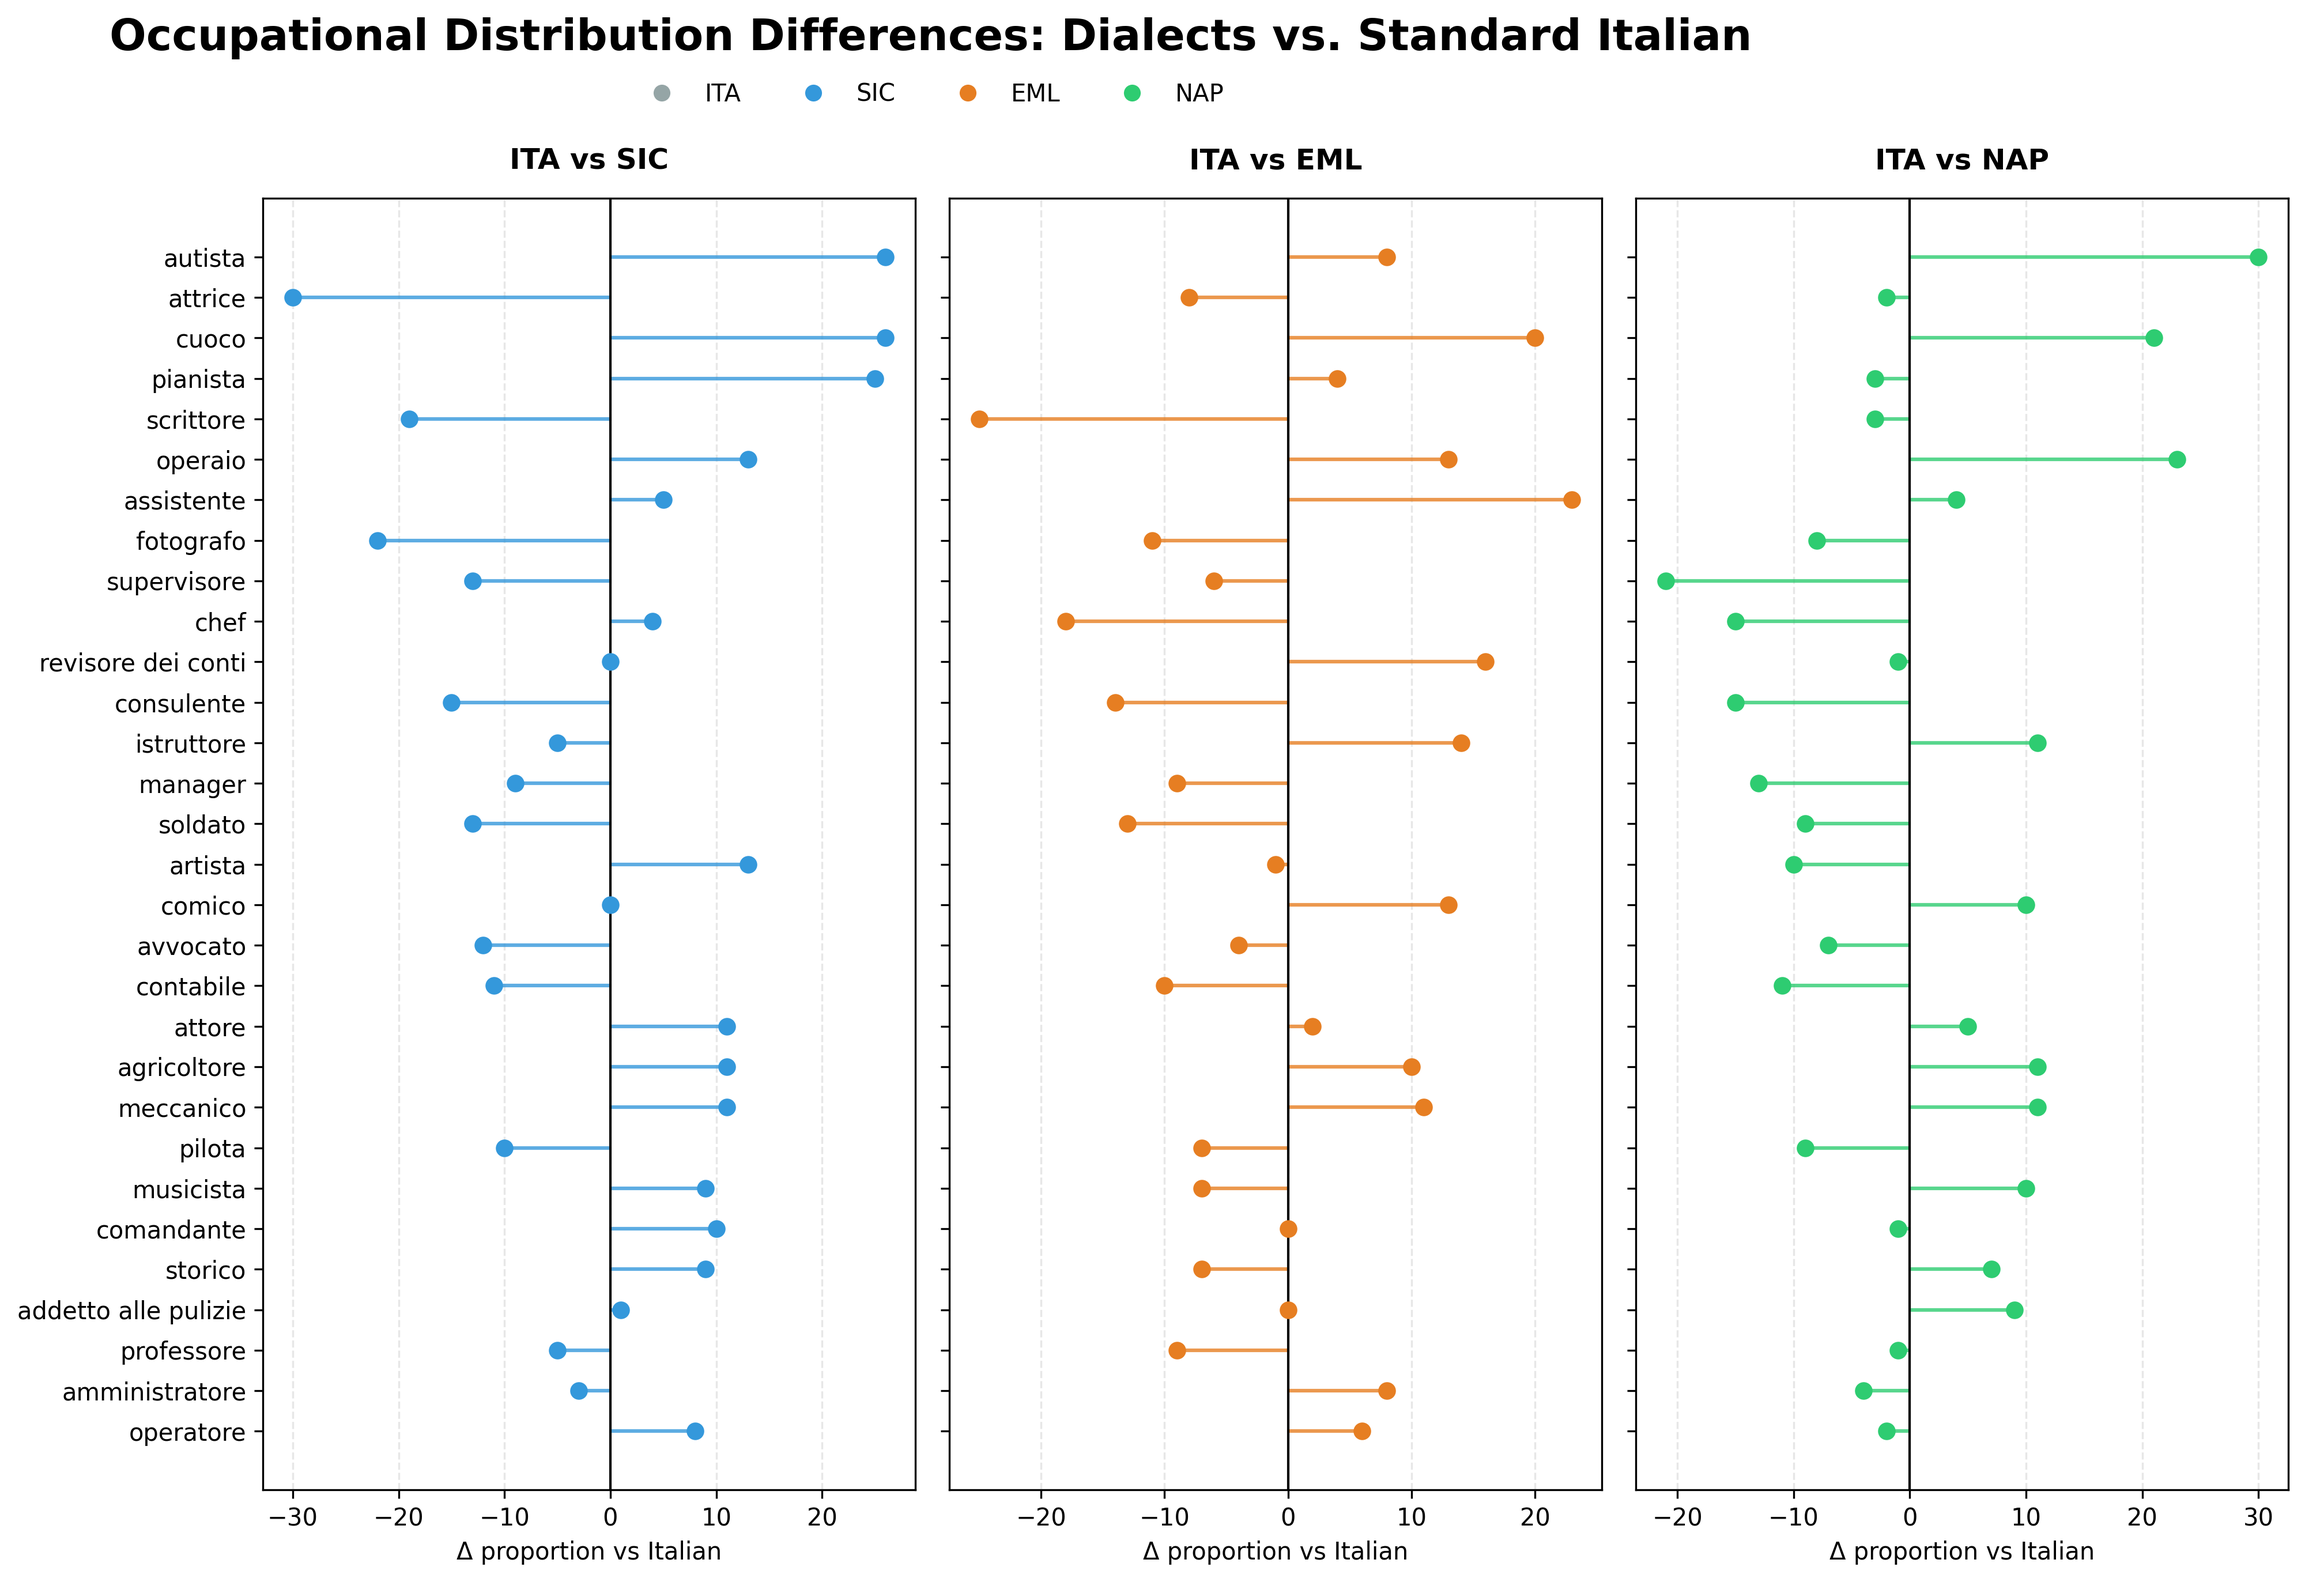
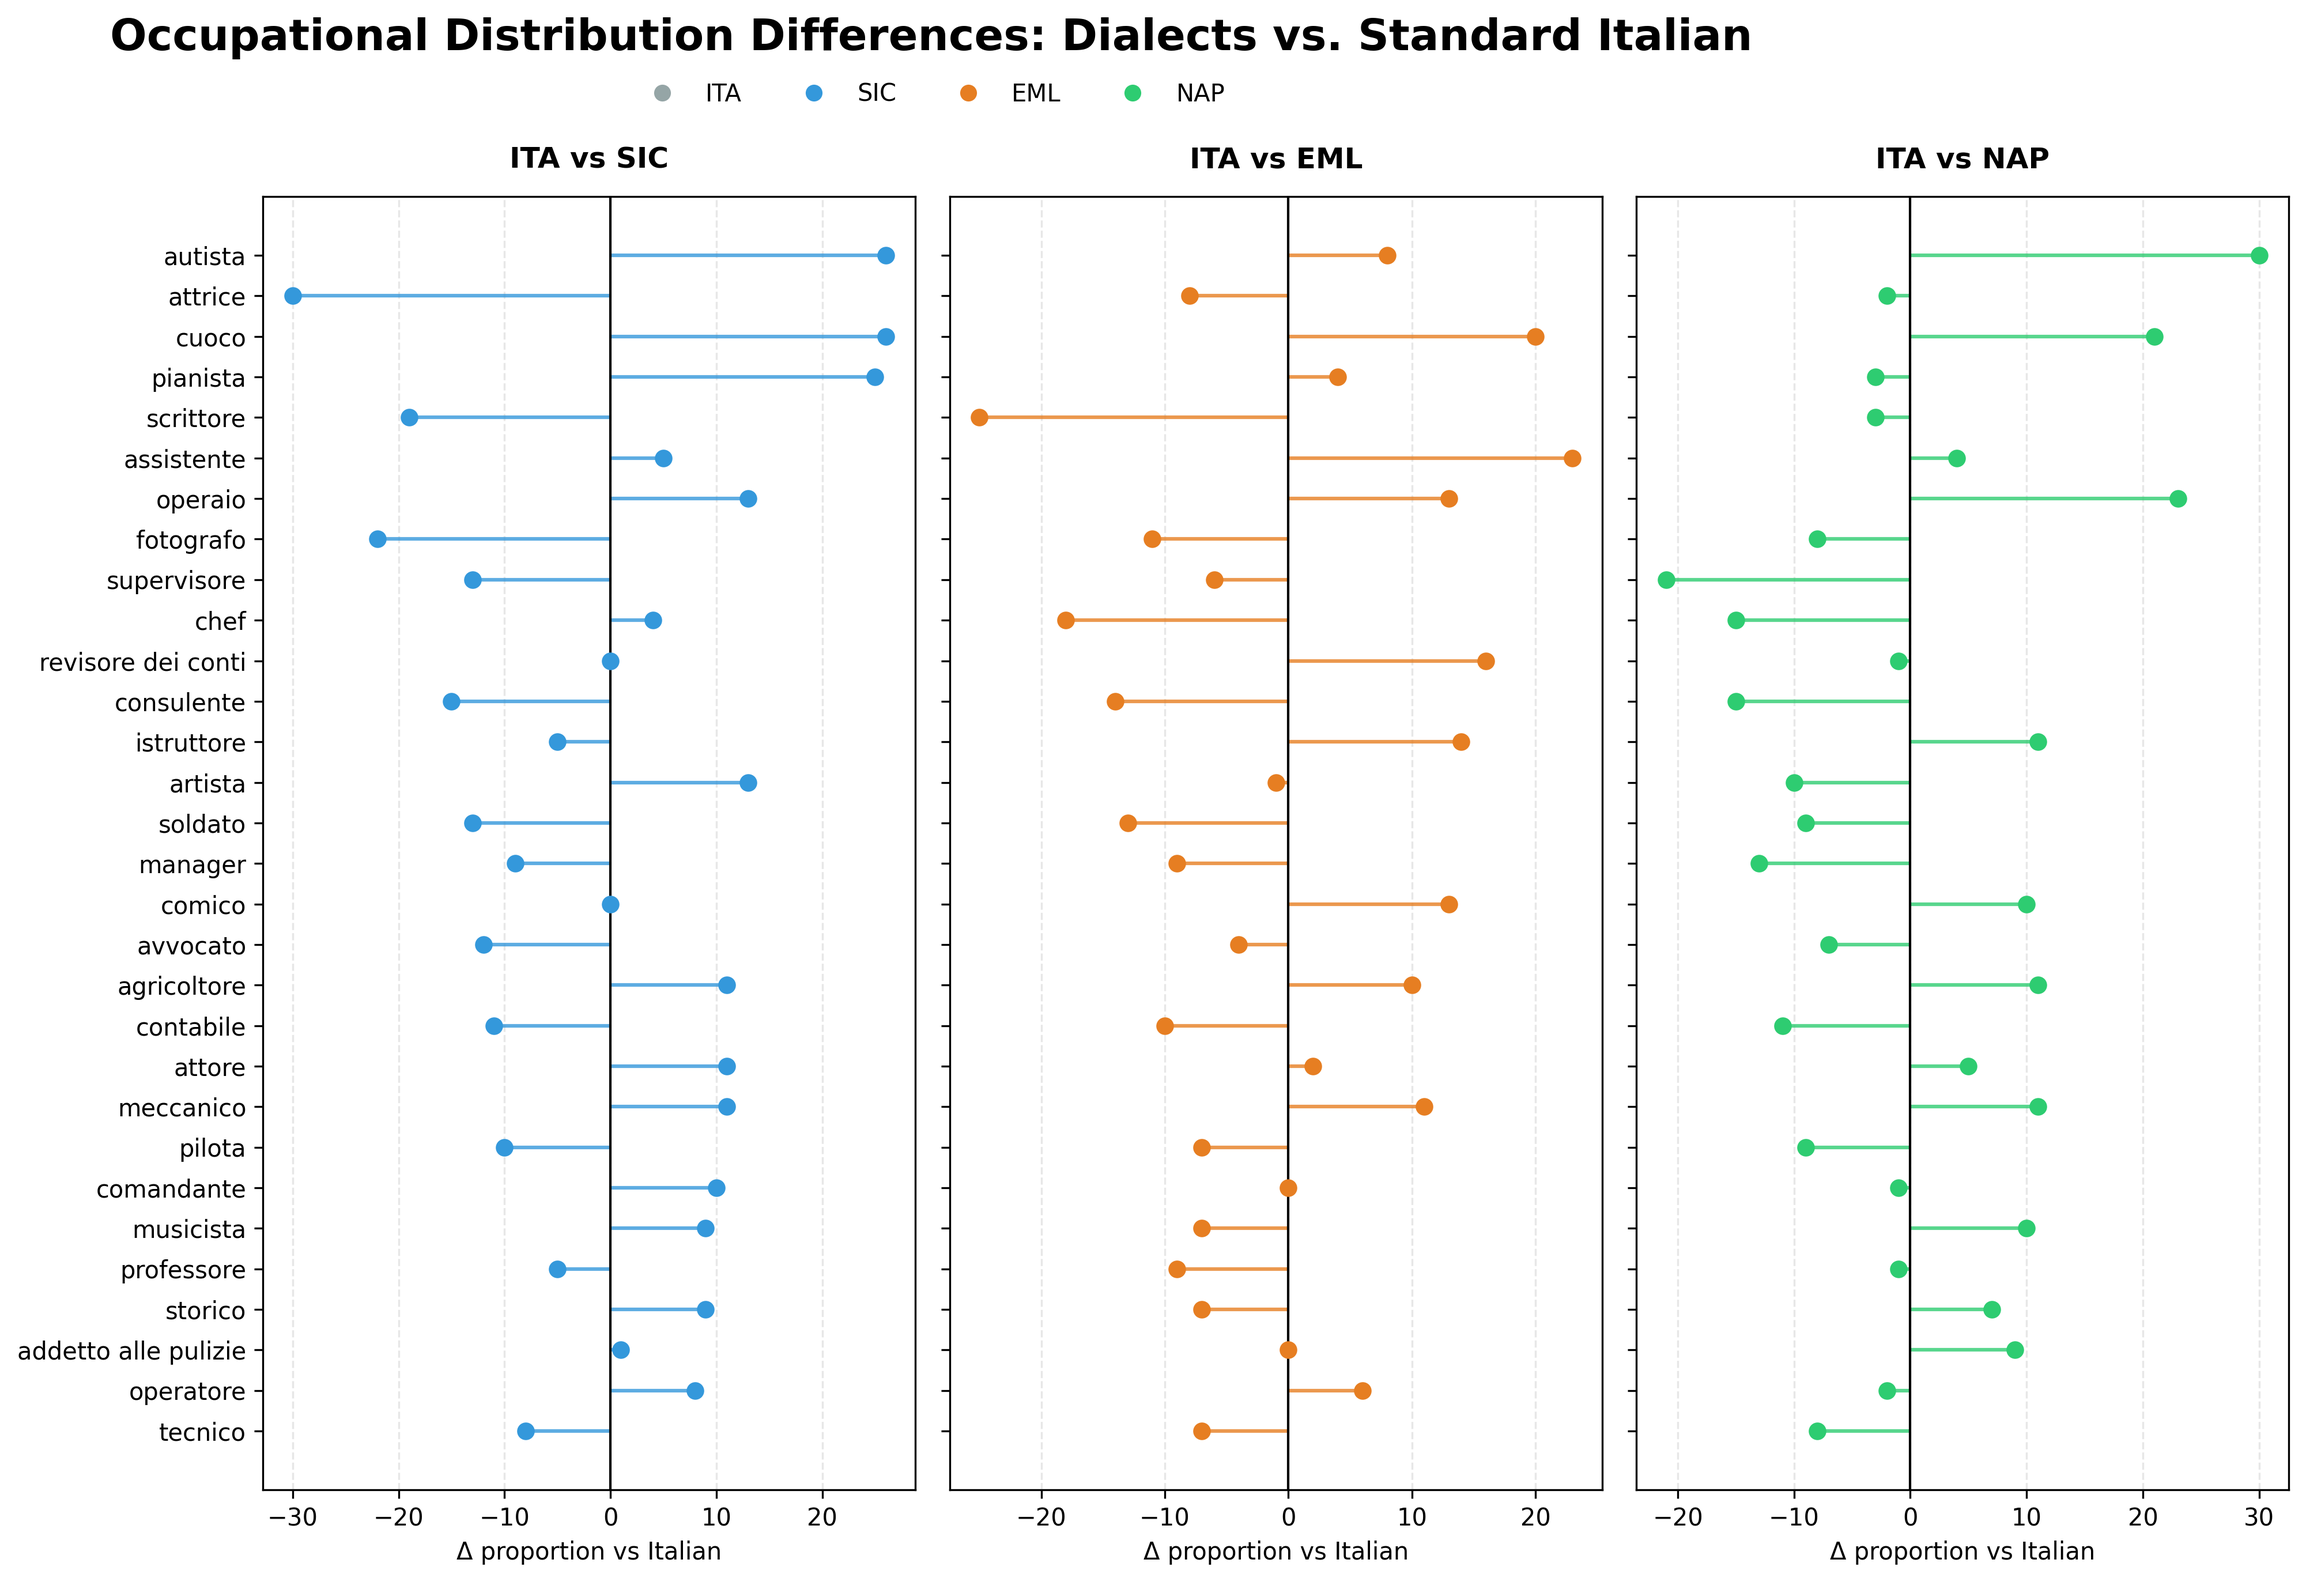
analisi cot rq1

diff --git a/rq1/analysis_CoT.py b/rq1/analysis_CoT.py
@@ -14,12 +14,11 @@ from scipy.stats import chi2_contingency
 # CONFIG
 # =========================
 
-INPUT_FILE = "job_assignment_no_bias_correction.json"
-CSV_FILE = "job_assignment_no_bias_correction.csv"
-PROFILE_RESULTS_FILE = "profile_statistical_results.csv"
-GLOBAL_DIFFS_FILE = "global_job_differences_vs_italian.csv"
-FIGURE_FILE = "job_distribution_differences_vs_italian.png"
-
+INPUT_FILE = "job_assignment_bias_correction.json"
+CSV_FILE = "job_assignment_bias_correction.csv"
+PROFILE_RESULTS_FILE = "profile_statistical_results_cot.csv"
+GLOBAL_DIFFS_FILE = "global_job_differences_vs_italian_cot.csv"
+FIGURE_FILE = "job_distribution_differences_vs_italian_cot.png"
 LANGUAGES = ["Italian", "Sicilian", "Parmigiano", "Napoletano"]
 
 # Use these labels in the plot
